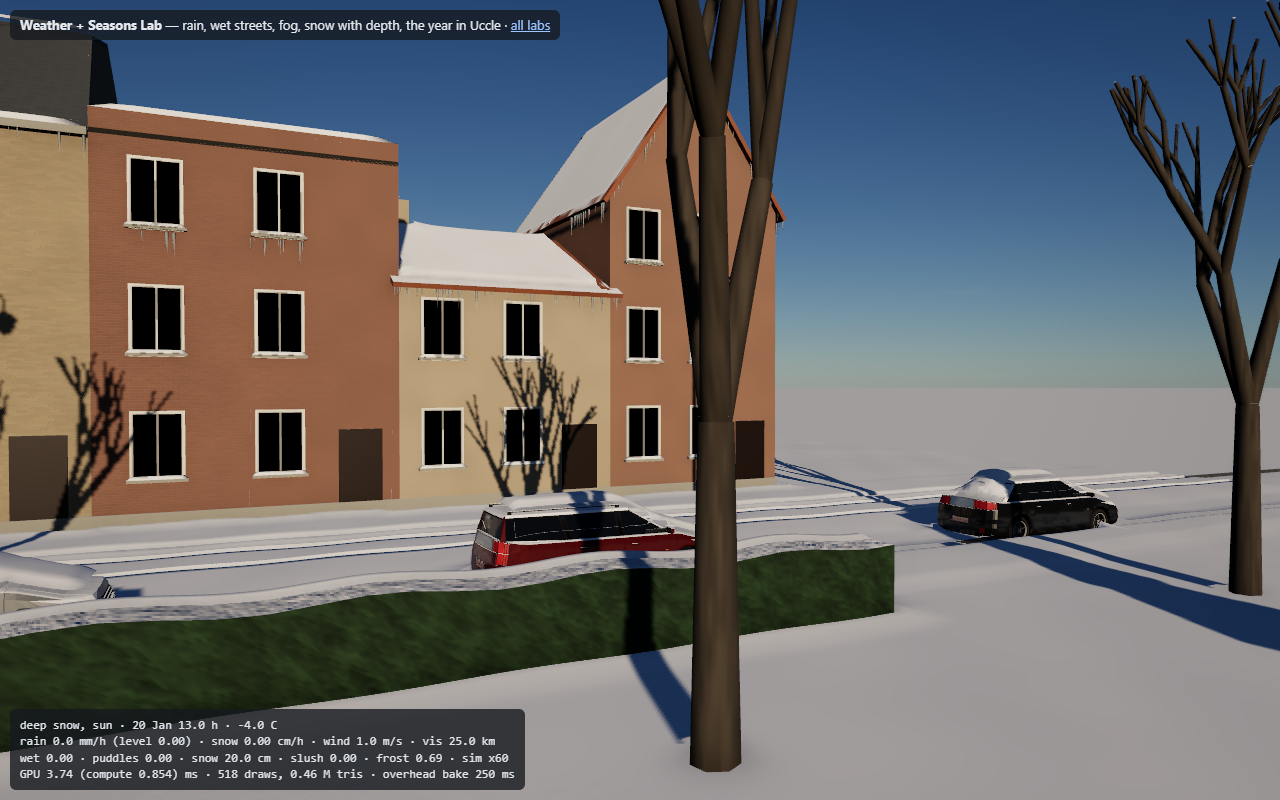
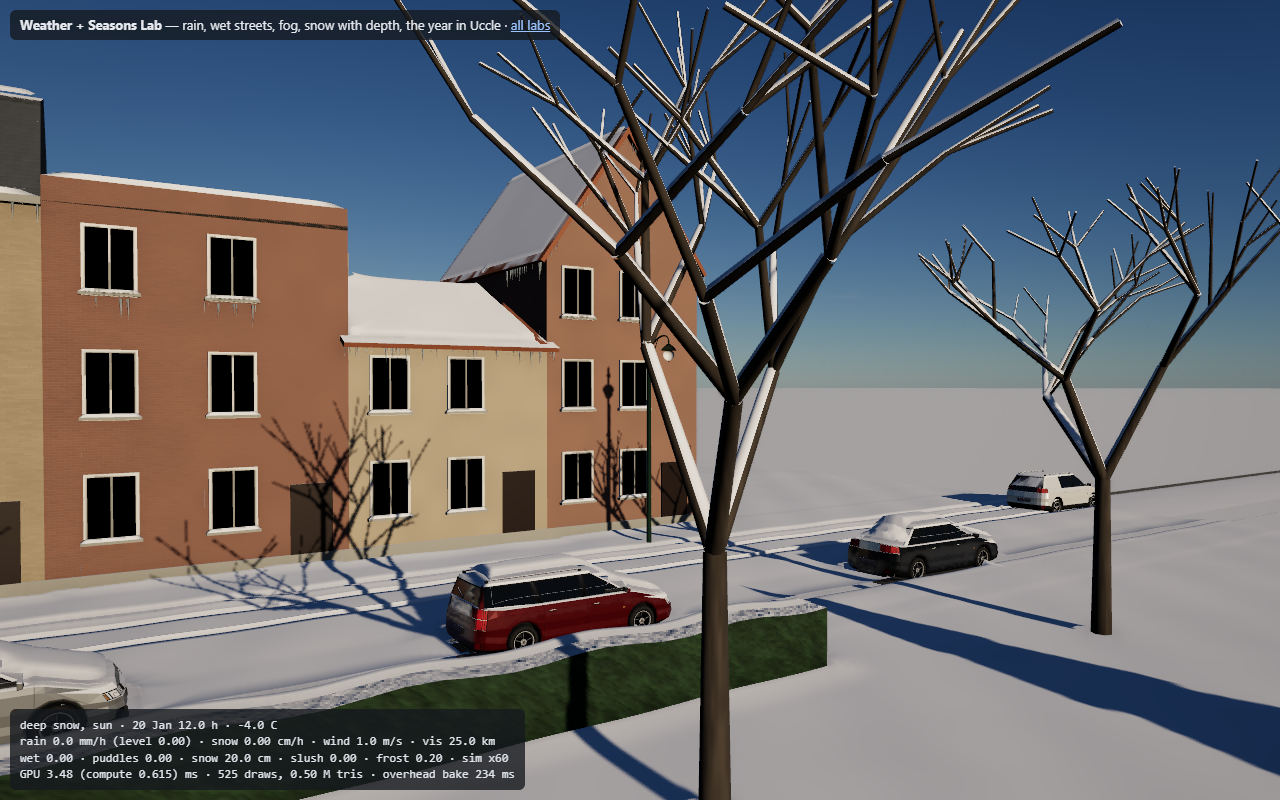
Round 2: salted roads (road bake layer), windward plaster on trunks, sky glow at night, flake motion streaks, patchier thin snow, eave sites exclude wall ledges

diff --git a/labs/weather-lab.js b/labs/weather-lab.js
@@ -25,7 +25,7 @@ import { loadLampModel } from "../viewer/lampModel.js";
 import { hash2D, noise2D, bumpNormal, filteredPulse } from "../viewer/tslkit.js";
 import { Weather, WEATHER_PRESETS, wx } from "../viewer/weather/weatherState.js";
 import { weatherize, wxLook } from "../viewer/weather/surfaceWeather.js";
-import { createOverheadMap, markSolid, markCanopy } from "../viewer/weather/overheadMap.js";
+import { createOverheadMap, markSolid, markCanopy, markRoad } from "../viewer/weather/overheadMap.js";
 import { createPrecipitation } from "../viewer/weather/precipitation.js";
 import { createSnowLayer } from "../viewer/weather/snowLayer.js";
 import { createWeatherFog } from "../viewer/weather/weatherFog.js";
@@ -154,7 +154,7 @@ const KERB = 0.13;
   for (let i = 0; i < p.count; i++) { const z = p.getZ(i), u = (z + 1) / 2.5; p.setY(i, 0.05 * (1 - u * u) + 0.002 * Math.sin(p.getX(i) * 0.7) * Math.sin(z * 3.1)); }
   g.computeVertexNormals();
   const gutter = smoothstep(1.0, 0.0, min(abs(P.z.add(3.5)), abs(P.z.sub(1.5))));
-  root.add(mesh(g, asphaltMat, { porosity: 0.75, puddles: true, puddleBias: gutter.mul(0.22), slush: true }));
+  root.add(markRoad(mesh(g, asphaltMat, { porosity: 0.75, puddles: true, puddleBias: gutter.mul(0.22), slush: true, road: true, edge: smoothstep(0.55, 0.15, min(abs(P.z.add(3.5)), abs(P.z.sub(1.5)))) })));
 }
 { // parking strip in setts (the city's cobble material: uv in metres along / across the strip)
   const g = new THREE.PlaneGeometry(140, 2, 280, 8).rotateX(-Math.PI / 2).translate(0, 0.0, 2.5);
@@ -365,7 +365,7 @@ for (const s of treeSites) {
   const base = new THREE.Vector3(s.x, KERB, s.z);
   grow(base, new THREE.Vector3(0, 1, 0), 3.2, 0.2, 4, out);
   const bg = mergeGeometries(out.br); const lg = mergeGeometries(out.lf);
-  const bm = mesh(bg, barkMat, { porosity: 0.7, streaks: false, snowUp: [0.12, 0.45] }, { solid: false, post: (m) => snowOnBranches(m, { radiusAttr: "aRad" }) });
+  const bm = mesh(bg, barkMat, { porosity: 0.7, streaks: false, snowUp: [0.12, 0.45], plaster: true }, { solid: false, post: (m) => snowOnBranches(m, { radiusAttr: "aRad" }) });
   treesG.add(bm);
   const lm = new THREE.Mesh(lg, leafMat); lm.castShadow = true; lm.receiveShadow = true; lm.name = "leaves";
   markCanopy(lm); treesG.add(lm);
@@ -484,7 +484,7 @@ const S = {
   preset: qp.get("preset") && WEATHER_PRESETS[qp.get("preset")] ? qp.get("preset") : "overcast, after rain",
   day: +(qp.get("day") ?? dayOfYear(today)), hour: +(qp.get("hour") ?? 11.5), night: false,
   live: false, liveInfo: "—", mist: 0, fogScale: 1,
-  rainOn: true, splashOn: true, snowOn: true, layerOn: true, iceOn: true, matMode: "full", leavesOn: true, matOn: true, fogOn: true, post: true,
+  rainOn: true, splashOn: true, snowOn: true, layerOn: true, iceOn: true, skyGlow: 0.25, matMode: "full", leavesOn: true, matOn: true, fogOn: true, post: true,
   view: "orbit", gpu: "—", stats: "", bench: "—", flicker: "—", dateLabel: "", seasonLabel: "", sunLabel: "",
 };
 const ui = new Panel({ title: "Weather Lab" });
@@ -528,6 +528,8 @@ fX.add(S, "leavesOn").name("falling leaves");
 fX.add(S, "matOn").name("weather on materials").onChange(swapMaterials);
 fX.add(S, "matMode", ["full", "lite (far tiles)"]).name("weatherize path").onChange(() => swapMaterials(S.matOn));
 fX.add(S, "iceOn").name("icicles + drips");
+fX.add(wx.uSalt, "value", 0, 1, 0.01).name("roads salted / ploughed");
+fX.add(S, "skyGlow", 0, 2, 0.01).name("urban sky glow (night)");
 fX.add(S, "fogOn").name("weather fog");
 fX.add(S, "post").name("post (AO, SSR, bloom)");
 fX.add(wxLook.uSparkle, "value", 0, 2, 0.01).name("snow sparkle");
@@ -696,6 +698,12 @@ function frame(dtOverride = null) {
   lighting.update(camera.position.y, 0, controls.target, 60, dt);
   // under a full deck the sun casts (almost) no shadow: the key light fades, the sky's environment carries the light
   lighting.uKey.value.multiplyScalar(1 - 0.88 * deck);
+  // URBAN SKY GLOW (the night photos: a cloud deck over Brussels glows orange-grey from the street lights and lights
+  // the snow everywhere, not only in the lamp pools): the lab's constant hemisphere light, warm, x night x cloud,
+  // more with snow on the ground (its albedo sends the light back up to the clouds)
+  const glow = env.uNight.value * (0.25 + 0.75 * weather.input.cloud) * (1 + 1.5 * wx.uSnowCover.value) * S.skyGlow;
+  lighting.hemi.color.setRGB(1.0, 0.72, 0.48); lighting.hemi.groundColor.setRGB(0.5, 0.42, 0.36);
+  lighting.hemi.intensity = glow;
   if (S.post) pipe.render(hazeHook); else renderer.render(scene, camera);
   pipe.setExposureFactor(lighting.adapt(dt));
   if (!S.post) renderer.toneMappingExposure = lighting.exposureScale * 0.85 * lighting.adapt(0);

diff --git a/viewer/weather/surfaceWeather.js b/viewer/weather/surfaceWeather.js
@@ -81,7 +81,7 @@ export function snowMask(P, up, exposure, cover = wx.uSnowCover, upLo = 0.42, up
 export function weatherize(m, o = {}) {
   // LITE (far tiles, ~0.1 ms): wet darkening + film roughness + SSR metalness + a one-octave snow cover; no puddles,
   // ripples, rivulets, beads, litter, flowers, sparkle or micro bump (they are sub-pixel past ~150 m anyway)
-  if (o.lite) o = { porosity: o.porosity, map: o.map, snow: o.snow, slush: o.slush, lite: true };
+  if (o.lite) o = { porosity: o.porosity, map: o.map, snow: o.snow, slush: o.slush, road: o.road, edge: o.edge, lite: true };
   const map = o.map;
   const porosity = float(o.porosity ?? 0.5);
   const baseCol = m.colorNode ?? vec3(m.color.r, m.color.g, m.color.b);
@@ -108,10 +108,19 @@ export function weatherize(m, o = {}) {
   // ---- wet film: rain reaches floors that are exposed; walls take ~60 %, sheltered floors ~15 %
   const reach = mix(mix(float(0.15), float(1), exposed).mul(float(1).sub(shelter.mul(0.4))), float(0.6), vert);
   const wet = clamp(wx.uWet.mul(reach), 0, 1).toVar();
+  // ROAD (o.road): salted / ploughed: the snow becomes melt water on the carriageway (wet black asphalt), kept as dirty
+  // slush only along the kerbs (o.edge: 1 at the gutter) and in a thin band between the wheel paths
+  let roadKeep = float(1);
+  if (o.road) {
+    const edge = o.edge ?? float(0);
+    roadKeep = float(1).sub(wx.uSalt.mul(float(1).sub(edge.mul(0.85))));
+    wet.assign(max(wet, wx.uSalt.mul(smoothstep(0.0, 0.3, wx.uSnowCover)).mul(0.6).mul(float(1).sub(edge.mul(0.5)))));
+  }
   let col = baseCol.mul(float(1).sub(wet.mul(porosity).mul(wxLook.uDarken)));
   // a soaked porous surface also gets a touch more saturated (Lagarde: the water layer)
   let rough = mix(baseRough, baseRough.mul(0.3).add(0.06), wet.mul(mix(float(0.55), float(1), horiz)));
   let metal = mix(baseMetal, max(baseMetal, float(0.12)), wet.mul(horiz));
+  if (o.road) { rough = mix(rough, max(rough, float(0.42)), wx.uSalt.mul(wx.uSnowCover.min(1))); metal = metal.mul(float(1).sub(wx.uSalt.mul(wx.uSnowCover.min(1)).mul(0.6))); }
   let nView = baseN;
 
   // ---- puddles
@@ -201,7 +210,7 @@ export function weatherize(m, o = {}) {
   if (o.snow !== false) {
     if (o.lite) {
       const cov = smoothstep(0.42, 0.78, up).mul(exposed).mul(wx.uSnowCover);
-      const sm = smoothstep(0.32, 0.5, cov.mul(1.45).sub(noise2D(P.xz.mul(0.6)).mul(0.45)));
+      const sm = smoothstep(0.32, 0.5, cov.mul(1.45).sub(noise2D(P.xz.mul(0.6)).mul(0.45))).mul(roadKeep);
       col = mix(col, mix(SNOW_ALBEDO, vec3(0.42, 0.43, 0.44), (o.slush ? wx.uSlush : wx.uSlush.mul(0.35)).mul(0.8)), sm);
       rough = mix(rough, float(0.72), sm);
       metal = mix(metal, float(0), sm);
@@ -211,9 +220,19 @@ export function weatherize(m, o = {}) {
     }
     // snowUp: the up-facing range that holds snow (branches: a round limb holds a ridge from ~0.15 up)
     const sm = snowMask(P, up, exposed.mul(float(1).sub(shelter.mul(0.6))), wx.uSnowCover, ...(o.snowUp ?? [0.42, 0.78])).toVar();
+    if (o.plaster) {
+      // wind-driven snow plastered on the windward side of trunks and posts (the night photo, Av. Churchill 2024)
+      const wn = wx.uWind.length();
+      const windward = smoothstep(0.25, 0.75, dot(normalize(Nw.xz.add(vec2(1e-4, 0))), wx.uWind.div(max(wn, 0.01)).negate()));
+      const pl = windward.mul(smoothstep(2.0, 8.0, wn)).mul(wx.uSnowCover).mul(vert);
+      const n2 = noise2D(vec2(P.y.mul(3.0), dot(P.xz, vec2(7.0, 5.0))));
+      sm.assign(max(sm, smoothstep(0.35, 0.6, pl.mul(1.3).sub(n2.mul(0.5)))));
+    }
     // slush: melting snow on roads / pavements turns grey, wet and patchy
-    const slush = o.slush ? wx.uSlush : wx.uSlush.mul(0.35);
-    const sCol = mix(SNOW_ALBEDO, vec3(0.42, 0.43, 0.44), slush.mul(0.8));
+    sm.mulAssign(roadKeep);
+    // what is left on a salted road is old, dirty slush (grey-brown), whatever the melt state
+    const slush = o.slush ? max(wx.uSlush, o.road ? wx.uSalt.mul(0.85) : float(0)) : wx.uSlush.mul(0.35);
+    const sCol = mix(SNOW_ALBEDO, vec3(0.36, 0.35, 0.33), slush.mul(0.85));
     const gl = glint(P, fw);
     const sRough = mix(mix(float(0.72), float(0.12), gl.w), float(0.22), slush);
     const bumpH = noise2D(P.xz.mul(9.0)).mul(0.006).mul(float(1).sub(smoothstep(0.004, 0.02, fw)));

diff --git a/viewer/weather/overheadMap.js b/viewer/weather/overheadMap.js
@@ -20,9 +20,11 @@ export { SHAPE };
 import { positionWorld, vec4, vec2, float, uniform, texture, clamp, ivec2, textureLoad } from "three/tsl";
 
 export const SOLID_LAYER = 20;     // meshes that stop rain and carry snow (ground, roads, roofs, cars, walls)
-export const CANOPY_LAYER = 21;    // tree crowns (shelter: less snow and less rain under them)
+export const CANOPY_LAYER = 21;
+export const ROAD_LAYER = 22;     // carriageways (salted / ploughed in winter: the snow layer keeps little there)    // tree crowns (shelter: less snow and less rain under them)
 
 export function markSolid(obj, on = true) { obj.traverse((o) => { if (o.isMesh) on ? o.layers.enable(SOLID_LAYER) : o.layers.disable(SOLID_LAYER); }); return obj; }
+export function markRoad(obj, on = true) { obj.traverse((o) => { if (o.isMesh) on ? o.layers.enable(ROAD_LAYER) : o.layers.disable(ROAD_LAYER); }); return obj; }
 export function markCanopy(obj, on = true) { obj.traverse((o) => { if (o.isMesh) on ? o.layers.enable(CANOPY_LAYER) : o.layers.disable(CANOPY_LAYER); }); return obj; }
 
 export function createOverheadMap({ renderer, centre = new THREE.Vector3(), size = 64, res = 512, depth = 200, height = 120 } = {}) {
@@ -65,19 +67,20 @@ export function createOverheadMap({ renderer, centre = new THREE.Vector3(), size
       const t0 = performance.now();
       const solidPx = await pass(scene, SOLID_LAYER);
       const canopyPx = await pass(scene, CANOPY_LAYER);
-      const job = { solidPx, canopyPx, res, cell, origin: [uOrigin.value.x, uOrigin.value.y] };
+      const roadPx = await pass(scene, ROAD_LAYER);
+      const job = { solidPx, canopyPx, roadPx, res, cell, origin: [uOrigin.value.x, uOrigin.value.y] };
       const t1 = performance.now();
       let r;
       try {
         worker ??= new Worker(new URL("./overheadWorker.js", import.meta.url), { type: "module" });
-        r = await new Promise((ok, fail) => { worker.onmessage = (e) => ok(e.data); worker.onerror = fail; worker.postMessage(job, [solidPx.buffer, canopyPx.buffer]); });
+        r = await new Promise((ok, fail) => { worker.onmessage = (e) => ok(e.data); worker.onerror = fail; worker.postMessage(job, [solidPx.buffer, canopyPx.buffer, roadPx.buffer]); });
         map.inWorker = true;
       } catch (e) {
         console.warn("[overhead] worker failed, shape pass on the main thread", e);
         r = computeOverheadShape(job); map.inWorker = false;
       }
       H.set(r.H); shelter.set(r.shelter); shape.set(r.shape); cliff.set(r.cliff); map.eaves = r.eaves; map.Hs = r.Hs;
-      for (let k = 0; k < res * res; k++) { data[k * 4] = r.Hs[k]; data[k * 4 + 1] = shelter[k]; data[k * 4 + 2] = shape[k]; data[k * 4 + 3] = cliff[k]; }
+      for (let k = 0; k < res * res; k++) { data[k * 4] = r.Hs[k]; data[k * 4 + 1] = shelter[k]; data[k * 4 + 2] = shape[k]; data[k * 4 + 3] = cliff[k] + 2 * r.road[k]; }
       tex.needsUpdate = true;
       map.ready = true;
       map.bakeMs = performance.now() - t0;

diff --git a/viewer/weather/overheadShape.js b/viewer/weather/overheadShape.js
@@ -14,7 +14,7 @@ export const SHAPE = {
   shelter: 0.65,        // under a full crown, snow depth x (1 - shelter)
 };
 
-export function computeOverheadShape({ solidPx, canopyPx, res, cell, origin }) {
+export function computeOverheadShape({ solidPx, canopyPx, roadPx = null, res, cell, origin }) {
   const N = res, S = SHAPE;
   const H = new Float32Array(N * N), Hs = new Float32Array(N * N), shelter = new Float32Array(N * N), shape = new Float32Array(N * N), cliff = new Uint8Array(N * N);
   const uOrigin = { value: { x: origin[0], y: origin[1] } };
@@ -119,6 +119,9 @@ export function computeOverheadShape({ solidPx, canopyPx, res, cell, origin }) {
   for (let k = 0; k < N * N; k++) shelter[k] = Cn[k] > H[k] + 0.8 ? 1 : 0;
   blur(shelter, 3);
   computeShape();
+  // road cells: a carriageway is the topmost surface here
+  const road = new Uint8Array(N * N);
+  if (roadPx) { const Rd = new Float32Array(N * N); toGrid(roadPx, Rd, -1e4); for (let k = 0; k < N * N; k++) road[k] = Rd[k] > H[k] - 0.05 ? 1 : 0; }
   // Hs: two passes of a 3 x 3 blur over the neighbours that are NOT across a step (gentle curves lose their terraces)
   Hs.set(H);
   const tmp = new Float32Array(N * N);
@@ -146,12 +149,13 @@ export function computeOverheadShape({ solidPx, canopyPx, res, cell, origin }) {
     const o = j * N + i, h = H[o];
     if (!cliff[o] || h < 1.5) continue;
     for (const [di, dj] of [[-1, 0], [1, 0], [0, -1], [0, 1]]) {
-      const lo = H[(j + dj) * N + i + di];
-      if (h - lo > 1.5 && rnd() < 0.55) {
+      const lo = H[(j + dj) * N + i + di], inner = H[(j - dj) * N + i - di];
+      // a roof edge, not a ledge on a wall (a sill under a taller facade has a much higher cell behind it)
+      if (h - lo > 1.5 && inner < h + 0.3 && rnd() < 0.55) {
         eaves.push((i + 0.5 + di * 0.5) * cell + origin[0], h, (j + 0.5 + dj * 0.5) * cell + origin[1], di, dj, h - lo);
         break;
       }
     }
   }
-  return { H, Hs, shelter, shape, cliff, eaves: new Float32Array(eaves), ms: Date.now() - t0 };
+  return { H, Hs, shelter, shape, cliff, road, eaves: new Float32Array(eaves), ms: Date.now() - t0 };
 }

diff --git a/viewer/weather/snowLayer.js b/viewer/weather/snowLayer.js
@@ -78,7 +78,9 @@ export function createSnowLayer({ renderer, map }) {
     const s = map.load(i.clamp(0, N - 1), j.clamp(0, N - 1));
     const idx = j.clamp(0, N - 1).mul(N).add(i.clamp(0, N - 1));
     const tr = track.element(idx);
-    const d = wx.uSnowDepth.mul(s.z).mul(float(1).sub(shelterK.mul(s.y)));     // (unevenness is baked in the shape)
+    // A = cliff + 2 x road: a salted carriageway keeps only a little (it is slush on the material below)
+    const road = s.w.greaterThan(1.5).select(float(1), float(0));
+    const d = wx.uSnowDepth.mul(s.z).mul(float(1).sub(shelterK.mul(s.y))).mul(float(1).sub(road.mul(wx.uSalt)));     // (unevenness is baked in the shape)
     return { s, tr, d };
   };
   const C = depthAt(ii, jj), L = depthAt(ii.sub(1), jj), R = depthAt(ii.add(1), jj), U = depthAt(ii, jj.sub(1)), D = depthAt(ii, jj.add(1));
@@ -86,10 +88,11 @@ export function createSnowLayer({ renderer, map }) {
   const hOf = (X, rim) => X.s.x.add(X.d.mul(float(1).sub(X.tr.mul(0.72))).mul(float(1).add(rim)));
   const hC = hOf(C, rimOf(C));
   // a neighbour across a cliff is replaced by the centre (no normal bent toward the street below)
-  const nb = (X) => select(X.s.w.greaterThan(0.5).or(X.s.x.sub(C.s.x).abs().greaterThan(0.3)), hC, hOf(X, float(0)));
+  const isCliff = (X) => X.s.w.mod(2.0).greaterThan(0.5);
+  const nb = (X) => select(isCliff(X).or(X.s.x.sub(C.s.x).abs().greaterThan(0.3)), hC, hOf(X, float(0)));
   const hL = nb(L), hR = nb(R), hU = nb(U), hD = nb(D);
   const nW = normalize(vec3(hL.sub(hR), uCell.mul(2), hU.sub(hD)));
-  const hide = select(C.s.w.greaterThan(0.5).or(C.d.lessThan(0.004)).or(C.s.x.lessThan(-1000)), float(1), float(0));
+  const hide = select(isCliff(C).or(C.d.lessThan(0.004)).or(C.s.x.lessThan(-1000)), float(1), float(0));
   mat.positionNode = vec3(positionGeometry.x, hC.add(0.003), positionGeometry.z);
   const vHide = varying(hide), vN = varying(nW), vTrack = varying(C.tr), vDepth = varying(C.d);
   const P = positionWorld;

diff --git a/viewer/weather/precipitation.js b/viewer/weather/precipitation.js
@@ -15,7 +15,7 @@ import { season } from "../seasons/season.js";
 
 const KIND = {
   rain: { max: 24000, box: 44, top: 22, fall: 8.5, size: 0.006, len: 0.55 },
-  snow: { max: 64000, box: 24, top: 12, fall: 1.0, size: 0.022, len: 0 },
+  snow: { max: 64000, box: 24, top: 12, fall: 1.0, size: 0.017, len: 0 },
   leaves: { max: 900, box: 60, top: 14, fall: 1.1, size: 0.05, len: 0 },
 };
 
@@ -154,9 +154,15 @@ export function createPrecipitation({ renderer, kind = "rain", map = null, trees
     const s0 = uSize.mul(P.w.mul(0.9).add(0.6));
     const sPx = dist.mul(uPx).mul(1.6);
     const s = max(s0, sPx);
-    mat.positionNode = C.add(vec3(uRight).mul(positionGeometry.x.mul(s))).add(vec3(uUp).mul(positionGeometry.y.mul(s)));
+    // motion blur (the night photo, Av. Churchill: flakes near the lamps are short streaks): stretched along the
+    // flake's velocity by ~1/40 s of travel
+    const vel = vec3(wx.uWind.x.mul(0.9), uFall.negate(), wx.uWind.y.mul(0.9));
+    const vdir = normalize(vel), sideF = normalize(cross(vdir, normalize(toCam)));
+    const sLen = s.add(length(vel).mul(0.025));
+    mat.positionNode = C.add(sideF.mul(positionGeometry.x.mul(s))).add(vdir.mul(positionGeometry.y.mul(sLen)));
     const energy = varying(s0.div(s).mul(edge).mul(smoothstep(0.4, 1.5, dist)));   // widened -> fainter (linear: a 1.6 px dot keeps its look)
-    const r = length(uv().sub(0.5)).mul(2);
+    const q = uv().sub(0.5).mul(2);
+    const r = length(vec2(q.x, q.y.mul(0.85)));
     mat.colorNode = vec3(uColor);
     mat.opacityNode = smoothstep(1.0, 0.2, r).mul(energy).mul(uOpacity);
   } else {

diff --git a/viewer/weather/weatherState.js b/viewer/weather/weatherState.js
@@ -20,6 +20,7 @@ export const wx = {
   uWind: uniform(new THREE.Vector2(0, 0)),   // m/s, world xz, the direction the air MOVES to
   uTime: uniform(0),            // s: animation time (frozen by the flicker test)
   uFrost: uniform(0),           // 0..1 hoar frost on grass / cars below 0 C with clear sky
+  uSalt: uniform(1),            // 0..1 roads salted / ploughed (Brussels treats its main roads: black wet asphalt, slush at the kerbs)
   uIcicle: uniform(0),          // 0..1 icicle growth under eaves (cold days with snow on the roofs)
   uDrip: uniform(0),            // 0..1 drips from eaves (melting snow, or rain through the gutters)
 };
@@ -113,8 +114,8 @@ export class Weather {
     wx.uWet.value = S.wet;
     wx.uPuddle.value = S.puddle;
     wx.uSnowDepth.value = S.depth;
-    // white cover: 1 cm already hides the ground on lawns; 0.3 cm is a dusting
-    wx.uSnowCover.value = Math.min(1, S.depth / 0.012);
+    // white cover: ~2.5 cm hides the ground; 1 cm is still patchy (the Bosveldweg photo: thin snow, ground showing)
+    wx.uSnowCover.value = Math.min(1, S.depth / 0.025);
     wx.uSlush.value = S.slush;
     wx.uFrost.value = S.frost;
     wx.uIcicle.value = S.icicle;

diff --git a/viewer/weather/overheadWorker.js b/viewer/weather/overheadWorker.js
@@ -2,5 +2,5 @@
 import { computeOverheadShape } from "./overheadShape.js";
 self.onmessage = (e) => {
   const r = computeOverheadShape(e.data);
-  self.postMessage(r, [r.H.buffer, r.Hs.buffer, r.shelter.buffer, r.shape.buffer, r.cliff.buffer, r.eaves.buffer]);
+  self.postMessage(r, [r.H.buffer, r.Hs.buffer, r.shelter.buffer, r.shape.buffer, r.cliff.buffer, r.road.buffer, r.eaves.buffer]);
 };
